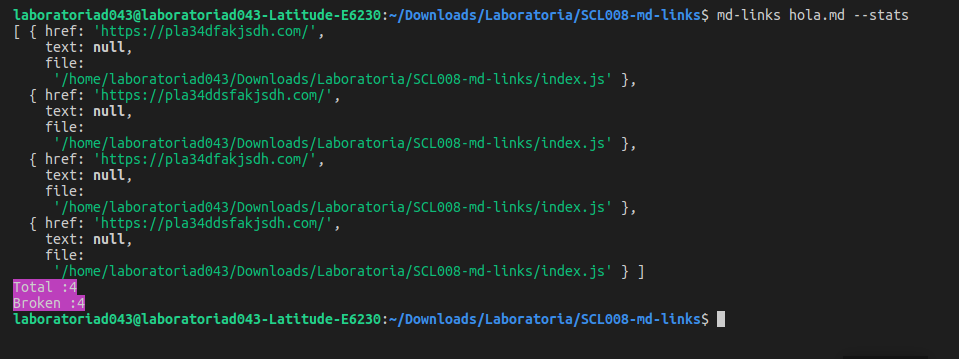
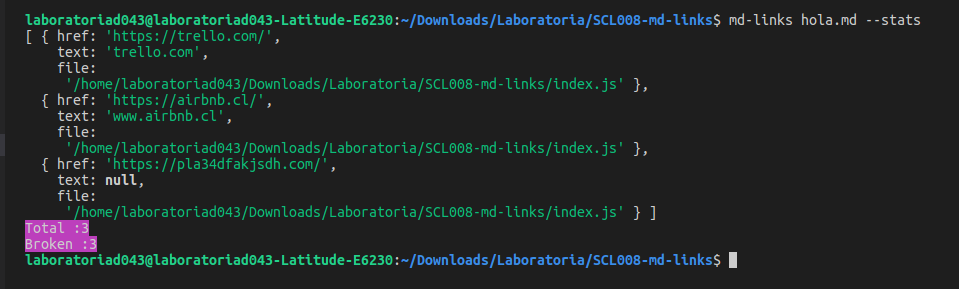
actualizando imagenes del readme y npm, ahora se ve bien, antes tenia capture con errores donde no se mostraba a veces el status

Changed region(s): [[0.0, 0.0311, 0.9677, 0.9343]]

diff --git a/index.js b/index.js
@@ -7,7 +7,7 @@ const chalk = require ('chalk')
 const underscore = require('underscore');
 const linksObject = [];
 
-mdLinks.mdLinks(process.argv[2], '--validate')
+mdLinks.mdLinks(process.argv[2])
 
   .then(res => {
     if (process.argv[3] === '--validate'){
@@ -37,7 +37,7 @@ mdLinks.mdLinks(process.argv[2], '--validate')
   })
   
 } else if (process.argv[3] === '--stats'){
-  mdLinks.mdLinks(process.argv[2], '--stats')
+  mdLinks.mdLinks(process.argv[2])
   const links = markdownLinkExtractor(res)
   links.map((link, index) => {
     axios.get(link)
@@ -64,7 +64,7 @@ mdLinks.mdLinks(process.argv[2], '--validate')
     })
 
   })
-} else if (process.argv[3] != '--validate' && process.argv[3] != '--stats' && process.argv[3] != null ) {
+} else  {
 
   mdLinks.mdLinks(process.argv[2])
 
